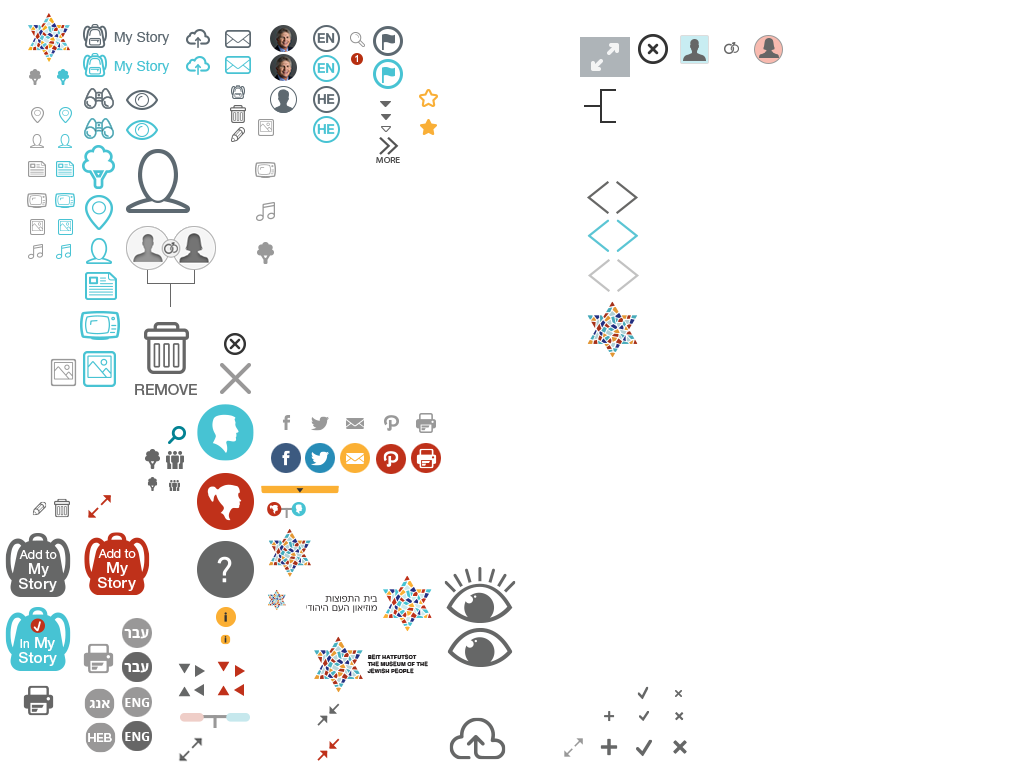
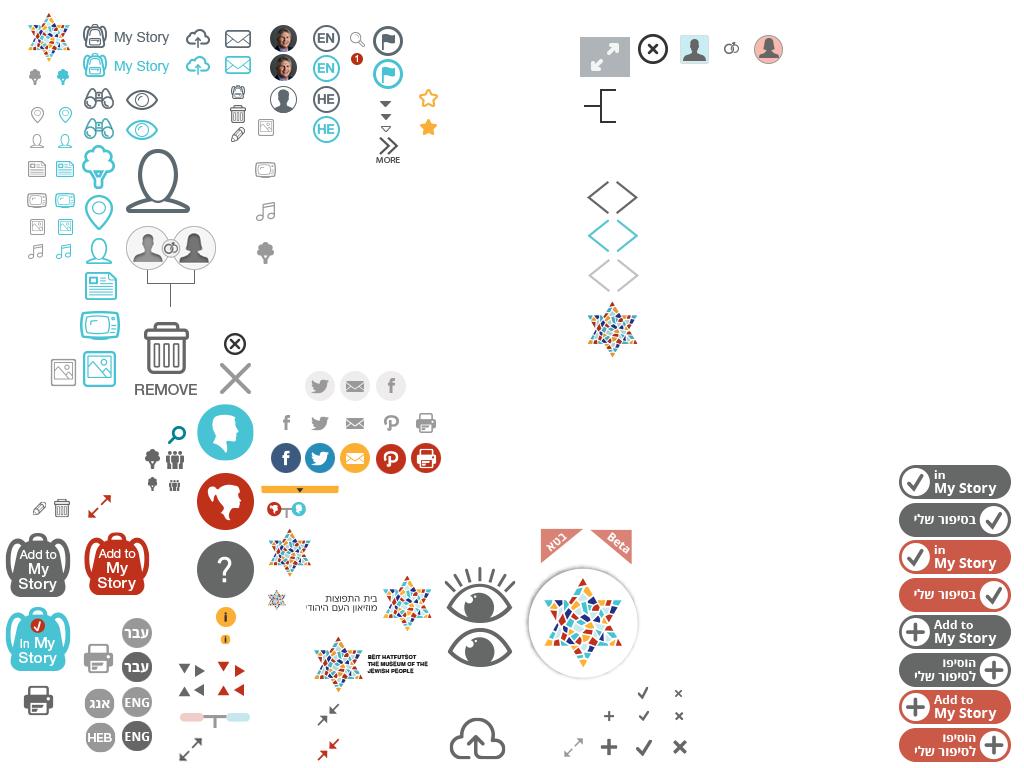
adding beta version notification

Changed region(s): [[0.875, 0.5938, 1.0, 1.0], [0.5312, 0.6875, 0.625, 0.875], [0.3125, 0.5, 0.375, 0.5312]]

diff --git a/templates/main/header.html b/templates/main/header.html
@@ -28,8 +28,31 @@
                 <div class="title">My Story</div>
                 <div class="icon active"></div>
               </a>
+              <en><icon class="beta-icon" alt-text="Beta" position="[-590, -530]"></icon></en>
+              <he><icon class="beta-icon" alt-text="'בטא'" position="[-541, -530]"></icon></he>
             </li>
           </ul>
+        </div>
+        <div class="beta-greeting" ng-show="headerController.greeting_open">
+          <en>
+            <svg class="beta-greeting__shape" height="174" width="530">
+              <path fill="#019DB2" d="M81.8,65.2C77.9,31.1,50.4,1,1,1c42.6,0,46.8,45.2,46.7,64.2h-7.2C28.7,65.2,19,74.9,19,86.7v65.8  c0,11.8,9.7,21.5,21.5,21.5h466.9c11.8,0,21.5-9.7,21.5-21.5V65.2H81.8z"/>
+            </svg>
+          </en>
+          <he>
+            <svg class="beta-greeting__shape" height="174" width="530">
+              <path fill="#019DB2" d="M489.5,65.2h-7.2C482.2,46.2,486.4,1,529,1c-49.4,0-76.9,30.2-80.8,64.2H1v87.3c0,11.8,9.7,21.5,21.5,21.5  h466.9c11.8,0,21.5-9.7,21.5-21.5V86.7C511,74.9,501.3,65.2,489.5,65.2z"/>
+            </svg>
+          </en>
+          </he>
+          <span class="beta-greeting__close" ng-click="headerController.greeting_open=false">x</span>
+          <p class="beta-greeting__text">
+            <en>Welcome! We're so happy you've joined us. Please note that we've just launched our new website and are improving it daily.<br>We hope you'll check out all that we've got here so far, and thank you for bearing with us while we keep working to make it even better.
+            </en>
+            <he>
+                ברוכים הבאים, אנחנו שמחים שהצטרפתם אלינו! אנא שימו לב שרק עתה השקנו את האתר ואנו עובדים עליו ומשפרים אותו כל הזמן. אנו מקווים שתהנו מכל מה שיש כאן, ושתחזרו לבקר מדי פעם כדי לגלות מה חדש. תודה על הסבלנות.
+            </he>
+          </p>
         </div>
         <div class="dropdown-icons">
           <!-- <div class="header-element dropdown-icons__my-account signed" dropdown>

diff --git a/scss/main/_header.scss b/scss/main/_header.scss
@@ -1,3 +1,67 @@
+.beta-icon {
+    width: 42px;
+    height: 35px;
+    position: absolute;
+    top: 0;
+
+    .en & {
+        right: 0;
+    }
+    .he & {
+        left: 0;
+    }
+}
+
+.beta-greeting {
+    position: relative;
+    width: 530px;
+    height: 174px;
+    top: 22px;
+    z-index: 1;
+
+    .en & {
+        left: 318px;
+    }
+    .he & {
+        right: 318px;
+    }
+
+    &__shape {
+        position: absolute;
+        top: 0;
+        left: 0;
+    }
+    &__close {
+        position: absolute;
+        top: 64px;
+        color: #fff;
+        font-weight: 700;
+        @include hover-pointer();
+
+        .en & {
+            right: 8px;
+        }
+        .he & {
+            left: 8px;
+        }
+    }
+
+    &__text {
+        position: absolute;
+        font-weight: 600;
+        font-size: 13px;
+        width: 100%;
+        top: 70px;
+        color: $blue4;
+        .en & {
+            padding-left: 40px;
+        }
+        .he & {
+            padding-right: 40px;
+        }
+    }
+}
+
 .main-header {
     position: fixed;
     top: 0;
@@ -31,6 +95,7 @@
                     list-style: none;
 
                     .site-item {
+                        position: relative;
                         
                         .en & {
                             float: left;
@@ -168,6 +233,7 @@
             .dropdown-icons {
                 position: fixed;
                 height: 70px;
+                top: 0;
                 display: flex;
                 align-items: center;
                 z-index: 2;

diff --git a/js/modules/main/src/controllers/headerCtrl.js b/js/modules/main/src/controllers/headerCtrl.js
@@ -5,6 +5,7 @@ var HeaderCtrl = function($state, wizard, header, notification, auth, mjs, cache
     this.auth = auth;
     this.cache = cache;
     this.recentlyViewed = recentlyViewed;
+    this.greeting_open = true;
     this.search_placeholders = {
         'en': 'Search for communities, last names and personalities',
         'he': 'חפשו קהילות, פירושי שמות משפחה ואישים'
